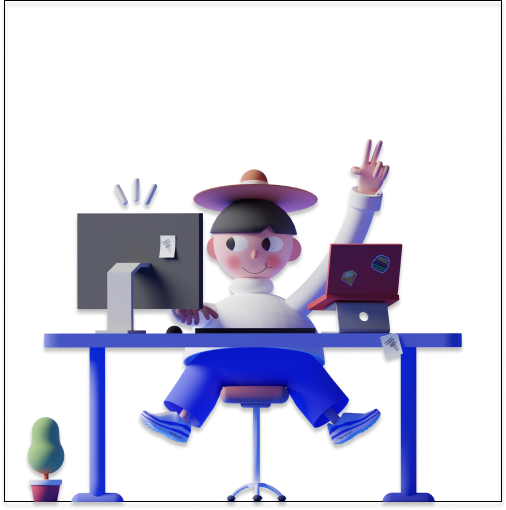
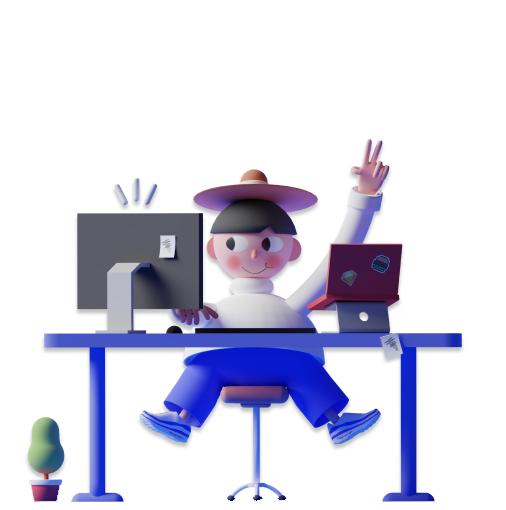
membuat tampilan seller

diff --git a/Assets/Js/popper.min.js b/Assets/Js/popper.min.js
@@ -1,0 +1,6 @@
+/**
+ * @popperjs/core v2.6.0 - MIT License
+ */
+
+"use strict";!function(e,t){"object"==typeof exports&&"undefined"!=typeof module?t(exports):"function"==typeof define&&define.amd?define(["exports"],t):t((e=e||self).Popper={})}(this,(function(e){function t(e){return{width:(e=e.getBoundingClientRect()).width,height:e.height,top:e.top,right:e.right,bottom:e.bottom,left:e.left,x:e.left,y:e.top}}function n(e){return"[object Window]"!==e.toString()?(e=e.ownerDocument)&&e.defaultView||window:e}function r(e){return{scrollLeft:(e=n(e)).pageXOffset,scrollTop:e.pageYOffset}}function o(e){return e instanceof n(e).Element||e instanceof Element}function i(e){return e instanceof n(e).HTMLElement||e instanceof HTMLElement}function a(e){return e?(e.nodeName||"").toLowerCase():null}function s(e){return((o(e)?e.ownerDocument:e.document)||window.document).documentElement}function f(e){return t(s(e)).left+r(e).scrollLeft}function c(e){return n(e).getComputedStyle(e)}function p(e){return e=c(e),/auto|scroll|overlay|hidden/.test(e.overflow+e.overflowY+e.overflowX)}function l(e,o,c){void 0===c&&(c=!1);var l=s(o);e=t(e);var u=i(o),d={scrollLeft:0,scrollTop:0},m={x:0,y:0};return(u||!u&&!c)&&(("body"!==a(o)||p(l))&&(d=o!==n(o)&&i(o)?{scrollLeft:o.scrollLeft,scrollTop:o.scrollTop}:r(o)),i(o)?((m=t(o)).x+=o.clientLeft,m.y+=o.clientTop):l&&(m.x=f(l))),{x:e.left+d.scrollLeft-m.x,y:e.top+d.scrollTop-m.y,width:e.width,height:e.height}}function u(e){return{x:e.offsetLeft,y:e.offsetTop,width:e.offsetWidth,height:e.offsetHeight}}function d(e){return"html"===a(e)?e:e.assignedSlot||e.parentNode||e.host||s(e)}function m(e,t){void 0===t&&(t=[]);var r=function e(t){return 0<=["html","body","#document"].indexOf(a(t))?t.ownerDocument.body:i(t)&&p(t)?t:e(d(t))}(e);e="body"===a(r);var o=n(r);return r=e?[o].concat(o.visualViewport||[],p(r)?r:[]):r,t=t.concat(r),e?t:t.concat(m(d(r)))}function h(e){if(!i(e)||"fixed"===c(e).position)return null;if(e=e.offsetParent){var t=s(e);if("body"===a(e)&&"static"===c(e).position&&"static"!==c(t).position)return t}return e}function g(e){for(var t=n(e),r=h(e);r&&0<=["table","td","th"].indexOf(a(r))&&"static"===c(r).position;)r=h(r);if(r&&"body"===a(r)&&"static"===c(r).position)return t;if(!r)e:{for(e=d(e);i(e)&&0>["html","body"].indexOf(a(e));){if("none"!==(r=c(e)).transform||"none"!==r.perspective||r.willChange&&"auto"!==r.willChange){r=e;break e}e=e.parentNode}r=null}return r||t}function v(e){var t=new Map,n=new Set,r=[];return e.forEach((function(e){t.set(e.name,e)})),e.forEach((function(e){n.has(e.name)||function e(o){n.add(o.name),[].concat(o.requires||[],o.requiresIfExists||[]).forEach((function(r){n.has(r)||(r=t.get(r))&&e(r)})),r.push(o)}(e)})),r}function b(e){var t;return function(){return t||(t=new Promise((function(n){Promise.resolve().then((function(){t=void 0,n(e())}))}))),t}}function y(e){return e.split("-")[0]}function O(e,t){var r,o=t.getRootNode&&t.getRootNode();if(e.contains(t))return!0;if((r=o)&&(r=o instanceof(r=n(o).ShadowRoot)||o instanceof ShadowRoot),r)do{if(t&&e.isSameNode(t))return!0;t=t.parentNode||t.host}while(t);return!1}function w(e){return Object.assign(Object.assign({},e),{},{left:e.x,top:e.y,right:e.x+e.width,bottom:e.y+e.height})}function x(e,o){if("viewport"===o){o=n(e);var a=s(e);o=o.visualViewport;var p=a.clientWidth;a=a.clientHeight;var l=0,u=0;o&&(p=o.width,a=o.height,/^((?!chrome|android).)*safari/i.test(navigator.userAgent)||(l=o.offsetLeft,u=o.offsetTop)),e=w(e={width:p,height:a,x:l+f(e),y:u})}else i(o)?((e=t(o)).top+=o.clientTop,e.left+=o.clientLeft,e.bottom=e.top+o.clientHeight,e.right=e.left+o.clientWidth,e.width=o.clientWidth,e.height=o.clientHeight,e.x=e.left,e.y=e.top):(u=s(e),e=s(u),l=r(u),o=u.ownerDocument.body,p=Math.max(e.scrollWidth,e.clientWidth,o?o.scrollWidth:0,o?o.clientWidth:0),a=Math.max(e.scrollHeight,e.clientHeight,o?o.scrollHeight:0,o?o.clientHeight:0),u=-l.scrollLeft+f(u),l=-l.scrollTop,"rtl"===c(o||e).direction&&(u+=Math.max(e.clientWidth,o?o.clientWidth:0)-p),e=w({width:p,height:a,x:u,y:l}));return e}function j(e,t,n){return t="clippingParents"===t?function(e){var t=m(d(e)),n=0<=["absolute","fixed"].indexOf(c(e).position)&&i(e)?g(e):e;return o(n)?t.filter((function(e){return o(e)&&O(e,n)&&"body"!==a(e)})):[]}(e):[].concat(t),(n=(n=[].concat(t,[n])).reduce((function(t,n){return n=x(e,n),t.top=Math.max(n.top,t.top),t.right=Math.min(n.right,t.right),t.bottom=Math.min(n.bottom,t.bottom),t.left=Math.max(n.left,t.left),t}),x(e,n[0]))).width=n.right-n.left,n.height=n.bottom-n.top,n.x=n.left,n.y=n.top,n}function M(e){return 0<=["top","bottom"].indexOf(e)?"x":"y"}function E(e){var t=e.reference,n=e.element,r=(e=e.placement)?y(e):null;e=e?e.split("-")[1]:null;var o=t.x+t.width/2-n.width/2,i=t.y+t.height/2-n.height/2;switch(r){case"top":o={x:o,y:t.y-n.height};break;case"bottom":o={x:o,y:t.y+t.height};break;case"right":o={x:t.x+t.width,y:i};break;case"left":o={x:t.x-n.width,y:i};break;default:o={x:t.x,y:t.y}}if(null!=(r=r?M(r):null))switch(i="y"===r?"height":"width",e){case"start":o[r]-=t[i]/2-n[i]/2;break;case"end":o[r]+=t[i]/2-n[i]/2}return o}function D(e){return Object.assign(Object.assign({},{top:0,right:0,bottom:0,left:0}),e)}function P(e,t){return t.reduce((function(t,n){return t[n]=e,t}),{})}function L(e,n){void 0===n&&(n={});var r=n;n=void 0===(n=r.placement)?e.placement:n;var i=r.boundary,a=void 0===i?"clippingParents":i,f=void 0===(i=r.rootBoundary)?"viewport":i;i=void 0===(i=r.elementContext)?"popper":i;var c=r.altBoundary,p=void 0!==c&&c;r=D("number"!=typeof(r=void 0===(r=r.padding)?0:r)?r:P(r,T));var l=e.elements.reference;c=e.rects.popper,a=j(o(p=e.elements[p?"popper"===i?"reference":"popper":i])?p:p.contextElement||s(e.elements.popper),a,f),p=E({reference:f=t(l),element:c,strategy:"absolute",placement:n}),c=w(Object.assign(Object.assign({},c),p)),f="popper"===i?c:f;var u={top:a.top-f.top+r.top,bottom:f.bottom-a.bottom+r.bottom,left:a.left-f.left+r.left,right:f.right-a.right+r.right};if(e=e.modifiersData.offset,"popper"===i&&e){var d=e[n];Object.keys(u).forEach((function(e){var t=0<=["right","bottom"].indexOf(e)?1:-1,n=0<=["top","bottom"].indexOf(e)?"y":"x";u[e]+=d[n]*t}))}return u}function k(){for(var e=arguments.length,t=Array(e),n=0;n<e;n++)t[n]=arguments[n];return!t.some((function(e){return!(e&&"function"==typeof e.getBoundingClientRect)}))}function B(e){void 0===e&&(e={});var t=e.defaultModifiers,n=void 0===t?[]:t,r=void 0===(e=e.defaultOptions)?V:e;return function(e,t,i){function a(){f.forEach((function(e){return e()})),f=[]}void 0===i&&(i=r);var s={placement:"bottom",orderedModifiers:[],options:Object.assign(Object.assign({},V),r),modifiersData:{},elements:{reference:e,popper:t},attributes:{},styles:{}},f=[],c=!1,p={state:s,setOptions:function(i){return a(),s.options=Object.assign(Object.assign(Object.assign({},r),s.options),i),s.scrollParents={reference:o(e)?m(e):e.contextElement?m(e.contextElement):[],popper:m(t)},i=function(e){var t=v(e);return N.reduce((function(e,n){return e.concat(t.filter((function(e){return e.phase===n})))}),[])}(function(e){var t=e.reduce((function(e,t){var n=e[t.name];return e[t.name]=n?Object.assign(Object.assign(Object.assign({},n),t),{},{options:Object.assign(Object.assign({},n.options),t.options),data:Object.assign(Object.assign({},n.data),t.data)}):t,e}),{});return Object.keys(t).map((function(e){return t[e]}))}([].concat(n,s.options.modifiers))),s.orderedModifiers=i.filter((function(e){return e.enabled})),s.orderedModifiers.forEach((function(e){var t=e.name,n=e.options;n=void 0===n?{}:n,"function"==typeof(e=e.effect)&&(t=e({state:s,name:t,instance:p,options:n}),f.push(t||function(){}))})),p.update()},forceUpdate:function(){if(!c){var e=s.elements,t=e.reference;if(k(t,e=e.popper))for(s.rects={reference:l(t,g(e),"fixed"===s.options.strategy),popper:u(e)},s.reset=!1,s.placement=s.options.placement,s.orderedModifiers.forEach((function(e){return s.modifiersData[e.name]=Object.assign({},e.data)})),t=0;t<s.orderedModifiers.length;t++)if(!0===s.reset)s.reset=!1,t=-1;else{var n=s.orderedModifiers[t];e=n.fn;var r=n.options;r=void 0===r?{}:r,n=n.name,"function"==typeof e&&(s=e({state:s,options:r,name:n,instance:p})||s)}}},update:b((function(){return new Promise((function(e){p.forceUpdate(),e(s)}))})),destroy:function(){a(),c=!0}};return k(e,t)?(p.setOptions(i).then((function(e){!c&&i.onFirstUpdate&&i.onFirstUpdate(e)})),p):p}}function W(e){var t,r=e.popper,o=e.popperRect,i=e.placement,a=e.offsets,f=e.position,c=e.gpuAcceleration,p=e.adaptive;e.roundOffsets?(e=window.devicePixelRatio||1,e={x:Math.round(a.x*e)/e||0,y:Math.round(a.y*e)/e||0}):e=a;var l=e;e=void 0===(e=l.x)?0:e,l=void 0===(l=l.y)?0:l;var u=a.hasOwnProperty("x");a=a.hasOwnProperty("y");var d,m="left",h="top",v=window;if(p){var b=g(r);b===n(r)&&(b=s(r)),"top"===i&&(h="bottom",l-=b.clientHeight-o.height,l*=c?1:-1),"left"===i&&(m="right",e-=b.clientWidth-o.width,e*=c?1:-1)}return r=Object.assign({position:f},p&&z),c?Object.assign(Object.assign({},r),{},((d={})[h]=a?"0":"",d[m]=u?"0":"",d.transform=2>(v.devicePixelRatio||1)?"translate("+e+"px, "+l+"px)":"translate3d("+e+"px, "+l+"px, 0)",d)):Object.assign(Object.assign({},r),{},((t={})[h]=a?l+"px":"",t[m]=u?e+"px":"",t.transform="",t))}function A(e){return e.replace(/left|right|bottom|top/g,(function(e){return G[e]}))}function H(e){return e.replace(/start|end/g,(function(e){return J[e]}))}function R(e,t,n){return void 0===n&&(n={x:0,y:0}),{top:e.top-t.height-n.y,right:e.right-t.width+n.x,bottom:e.bottom-t.height+n.y,left:e.left-t.width-n.x}}function S(e){return["top","right","bottom","left"].some((function(t){return 0<=e[t]}))}var T=["top","bottom","right","left"],q=T.reduce((function(e,t){return e.concat([t+"-start",t+"-end"])}),[]),C=[].concat(T,["auto"]).reduce((function(e,t){return e.concat([t,t+"-start",t+"-end"])}),[]),N="beforeRead read afterRead beforeMain main afterMain beforeWrite write afterWrite".split(" "),V={placement:"bottom",modifiers:[],strategy:"absolute"},I={passive:!0},_={name:"eventListeners",enabled:!0,phase:"write",fn:function(){},effect:function(e){var t=e.state,r=e.instance,o=(e=e.options).scroll,i=void 0===o||o,a=void 0===(e=e.resize)||e,s=n(t.elements.popper),f=[].concat(t.scrollParents.reference,t.scrollParents.popper);return i&&f.forEach((function(e){e.addEventListener("scroll",r.update,I)})),a&&s.addEventListener("resize",r.update,I),function(){i&&f.forEach((function(e){e.removeEventListener("scroll",r.update,I)})),a&&s.removeEventListener("resize",r.update,I)}},data:{}},U={name:"popperOffsets",enabled:!0,phase:"read",fn:function(e){var t=e.state;t.modifiersData[e.name]=E({reference:t.rects.reference,element:t.rects.popper,strategy:"absolute",placement:t.placement})},data:{}},z={top:"auto",right:"auto",bottom:"auto",left:"auto"},F={name:"computeStyles",enabled:!0,phase:"beforeWrite",fn:function(e){var t=e.state,n=e.options;e=void 0===(e=n.gpuAcceleration)||e;var r=n.adaptive;r=void 0===r||r,n=void 0===(n=n.roundOffsets)||n,e={placement:y(t.placement),popper:t.elements.popper,popperRect:t.rects.popper,gpuAcceleration:e},null!=t.modifiersData.popperOffsets&&(t.styles.popper=Object.assign(Object.assign({},t.styles.popper),W(Object.assign(Object.assign({},e),{},{offsets:t.modifiersData.popperOffsets,position:t.options.strategy,adaptive:r,roundOffsets:n})))),null!=t.modifiersData.arrow&&(t.styles.arrow=Object.assign(Object.assign({},t.styles.arrow),W(Object.assign(Object.assign({},e),{},{offsets:t.modifiersData.arrow,position:"absolute",adaptive:!1,roundOffsets:n})))),t.attributes.popper=Object.assign(Object.assign({},t.attributes.popper),{},{"data-popper-placement":t.placement})},data:{}},X={name:"applyStyles",enabled:!0,phase:"write",fn:function(e){var t=e.state;Object.keys(t.elements).forEach((function(e){var n=t.styles[e]||{},r=t.attributes[e]||{},o=t.elements[e];i(o)&&a(o)&&(Object.assign(o.style,n),Object.keys(r).forEach((function(e){var t=r[e];!1===t?o.removeAttribute(e):o.setAttribute(e,!0===t?"":t)})))}))},effect:function(e){var t=e.state,n={popper:{position:t.options.strategy,left:"0",top:"0",margin:"0"},arrow:{position:"absolute"},reference:{}};return Object.assign(t.elements.popper.style,n.popper),t.elements.arrow&&Object.assign(t.elements.arrow.style,n.arrow),function(){Object.keys(t.elements).forEach((function(e){var r=t.elements[e],o=t.attributes[e]||{};e=Object.keys(t.styles.hasOwnProperty(e)?t.styles[e]:n[e]).reduce((function(e,t){return e[t]="",e}),{}),i(r)&&a(r)&&(Object.assign(r.style,e),Object.keys(o).forEach((function(e){r.removeAttribute(e)})))}))}},requires:["computeStyles"]},Y={name:"offset",enabled:!0,phase:"main",requires:["popperOffsets"],fn:function(e){var t=e.state,n=e.name,r=void 0===(e=e.options.offset)?[0,0]:e,o=(e=C.reduce((function(e,n){var o=t.rects,i=y(n),a=0<=["left","top"].indexOf(i)?-1:1,s="function"==typeof r?r(Object.assign(Object.assign({},o),{},{placement:n})):r;return o=(o=s[0])||0,s=((s=s[1])||0)*a,i=0<=["left","right"].indexOf(i)?{x:s,y:o}:{x:o,y:s},e[n]=i,e}),{}))[t.placement],i=o.x;o=o.y,null!=t.modifiersData.popperOffsets&&(t.modifiersData.popperOffsets.x+=i,t.modifiersData.popperOffsets.y+=o),t.modifiersData[n]=e}},G={left:"right",right:"left",bottom:"top",top:"bottom"},J={start:"end",end:"start"},K={name:"flip",enabled:!0,phase:"main",fn:function(e){var t=e.state,n=e.options;if(e=e.name,!t.modifiersData[e]._skip){var r=n.mainAxis;r=void 0===r||r;var o=n.altAxis;o=void 0===o||o;var i=n.fallbackPlacements,a=n.padding,s=n.boundary,f=n.rootBoundary,c=n.altBoundary,p=n.flipVariations,l=void 0===p||p,u=n.allowedAutoPlacements;p=y(n=t.options.placement),i=i||(p!==n&&l?function(e){if("auto"===y(e))return[];var t=A(e);return[H(e),t,H(t)]}(n):[A(n)]);var d=[n].concat(i).reduce((function(e,n){return e.concat("auto"===y(n)?function(e,t){void 0===t&&(t={});var n=t.boundary,r=t.rootBoundary,o=t.padding,i=t.flipVariations,a=t.allowedAutoPlacements,s=void 0===a?C:a,f=t.placement.split("-")[1];0===(i=(t=f?i?q:q.filter((function(e){return e.split("-")[1]===f})):T).filter((function(e){return 0<=s.indexOf(e)}))).length&&(i=t);var c=i.reduce((function(t,i){return t[i]=L(e,{placement:i,boundary:n,rootBoundary:r,padding:o})[y(i)],t}),{});return Object.keys(c).sort((function(e,t){return c[e]-c[t]}))}(t,{placement:n,boundary:s,rootBoundary:f,padding:a,flipVariations:l,allowedAutoPlacements:u}):n)}),[]);n=t.rects.reference,i=t.rects.popper;var m=new Map;p=!0;for(var h=d[0],g=0;g<d.length;g++){var v=d[g],b=y(v),O="start"===v.split("-")[1],w=0<=["top","bottom"].indexOf(b),x=w?"width":"height",j=L(t,{placement:v,boundary:s,rootBoundary:f,altBoundary:c,padding:a});if(O=w?O?"right":"left":O?"bottom":"top",n[x]>i[x]&&(O=A(O)),x=A(O),w=[],r&&w.push(0>=j[b]),o&&w.push(0>=j[O],0>=j[x]),w.every((function(e){return e}))){h=v,p=!1;break}m.set(v,w)}if(p)for(r=function(e){var t=d.find((function(t){if(t=m.get(t))return t.slice(0,e).every((function(e){return e}))}));if(t)return h=t,"break"},o=l?3:1;0<o&&"break"!==r(o);o--);t.placement!==h&&(t.modifiersData[e]._skip=!0,t.placement=h,t.reset=!0)}},requiresIfExists:["offset"],data:{_skip:!1}},Q={name:"preventOverflow",enabled:!0,phase:"main",fn:function(e){var t=e.state,n=e.options;e=e.name;var r=n.mainAxis,o=void 0===r||r;r=void 0!==(r=n.altAxis)&&r;var i=n.tether;i=void 0===i||i;var a=n.tetherOffset,s=void 0===a?0:a;n=L(t,{boundary:n.boundary,rootBoundary:n.rootBoundary,padding:n.padding,altBoundary:n.altBoundary}),a=y(t.placement);var f=t.placement.split("-")[1],c=!f,p=M(a);a="x"===p?"y":"x";var l=t.modifiersData.popperOffsets,d=t.rects.reference,m=t.rects.popper,h="function"==typeof s?s(Object.assign(Object.assign({},t.rects),{},{placement:t.placement})):s;if(s={x:0,y:0},l){if(o){var v="y"===p?"top":"left",b="y"===p?"bottom":"right",O="y"===p?"height":"width";o=l[p];var w=l[p]+n[v],x=l[p]-n[b],j=i?-m[O]/2:0,E="start"===f?d[O]:m[O];f="start"===f?-m[O]:-d[O],m=t.elements.arrow,m=i&&m?u(m):{width:0,height:0};var D=t.modifiersData["arrow#persistent"]?t.modifiersData["arrow#persistent"].padding:{top:0,right:0,bottom:0,left:0};v=D[v],b=D[b],m=Math.max(0,Math.min(d[O],m[O])),E=c?d[O]/2-j-m-v-h:E-m-v-h,c=c?-d[O]/2+j+m+b+h:f+m+b+h,h=t.elements.arrow&&g(t.elements.arrow),d=t.modifiersData.offset?t.modifiersData.offset[t.placement][p]:0,h=l[p]+E-d-(h?"y"===p?h.clientTop||0:h.clientLeft||0:0),c=l[p]+c-d,i=Math.max(i?Math.min(w,h):w,Math.min(o,i?Math.max(x,c):x)),l[p]=i,s[p]=i-o}r&&(r=l[a],i=Math.max(r+n["x"===p?"top":"left"],Math.min(r,r-n["x"===p?"bottom":"right"])),l[a]=i,s[a]=i-r),t.modifiersData[e]=s}},requiresIfExists:["offset"]},Z={name:"arrow",enabled:!0,phase:"main",fn:function(e){var t,n=e.state;e=e.name;var r=n.elements.arrow,o=n.modifiersData.popperOffsets,i=y(n.placement),a=M(i);if(i=0<=["left","right"].indexOf(i)?"height":"width",r&&o){var s=n.modifiersData[e+"#persistent"].padding,f=u(r),c="y"===a?"top":"left",p="y"===a?"bottom":"right",l=n.rects.reference[i]+n.rects.reference[a]-o[a]-n.rects.popper[i];o=o[a]-n.rects.reference[a],l=(r=(r=g(r))?"y"===a?r.clientHeight||0:r.clientWidth||0:0)/2-f[i]/2+(l/2-o/2),i=Math.max(s[c],Math.min(l,r-f[i]-s[p])),n.modifiersData[e]=((t={})[a]=i,t.centerOffset=i-l,t)}},effect:function(e){var t=e.state,n=e.options;e=e.name;var r=n.element;if(r=void 0===r?"[data-popper-arrow]":r,n=void 0===(n=n.padding)?0:n,null!=r){if("string"==typeof r&&!(r=t.elements.popper.querySelector(r)))return;O(t.elements.popper,r)&&(t.elements.arrow=r,t.modifiersData[e+"#persistent"]={padding:D("number"!=typeof n?n:P(n,T))})}},requires:["popperOffsets"],requiresIfExists:["preventOverflow"]},$={name:"hide",enabled:!0,phase:"main",requiresIfExists:["preventOverflow"],fn:function(e){var t=e.state;e=e.name;var n=t.rects.reference,r=t.rects.popper,o=t.modifiersData.preventOverflow,i=L(t,{elementContext:"reference"}),a=L(t,{altBoundary:!0});n=R(i,n),r=R(a,r,o),o=S(n),a=S(r),t.modifiersData[e]={referenceClippingOffsets:n,popperEscapeOffsets:r,isReferenceHidden:o,hasPopperEscaped:a},t.attributes.popper=Object.assign(Object.assign({},t.attributes.popper),{},{"data-popper-reference-hidden":o,"data-popper-escaped":a})}},ee=B({defaultModifiers:[_,U,F,X]}),te=[_,U,F,X,Y,K,Q,Z,$],ne=B({defaultModifiers:te});e.applyStyles=X,e.arrow=Z,e.computeStyles=F,e.createPopper=ne,e.createPopperLite=ee,e.defaultModifiers=te,e.detectOverflow=L,e.eventListeners=_,e.flip=K,e.hide=$,e.offset=Y,e.popperGenerator=B,e.popperOffsets=U,e.preventOverflow=Q,Object.defineProperty(e,"__esModule",{value:!0})}));
+//# sourceMappingURL=popper.min.js.map

diff --git a/Auth/Seller.html b/Auth/Seller.html
@@ -1,0 +1,73 @@
+<!DOCTYPE html>
+<html lang="en">
+
+<head>
+    <meta charset="UTF-8">
+    <meta name="viewport" content="width=device-width, initial-scale=1.0">
+    <title>Seller Register</title>
+    <link rel="icon" href="../Assets/img/logo_transparent.png">
+    <link rel='stylesheet' href='../Assets/css/bootstrap.min.css'>
+    <link rel="stylesheet" href="../Assets/css/Seller.css">
+</head>
+
+<body>
+    <div class="sellerContainer">
+        <div class="container">
+            <div class="row justify-content-center">
+                <div class="col-lg-7">
+                    <div class="card cardSeller px-3">
+                        <div class="row">
+                            <div class="col-12">
+                                <h2 class="sellerHeader text-center">Daftar Menjadi Seller</h2>
+                            </div>
+                        </div>
+                        <div class="row justify-content-center">
+                            <div class="col-md-6">
+                                <form action="">
+                                    <div class="form-group mt-2">
+                                        <label for="" class="form-label small">Email</label>
+                                        <input type="email" class="w-100 form-control form-control-sm">
+                                    </div>
+
+                                    <div class="form-group mt-2">
+                                        <label for="" class="form-label small">Nama Toko</label>
+                                        <input type="text" class="w-100 form-control form-control-sm">
+                                    </div>
+
+                                    <div class="form-group">
+                                        <label for="" class="form-label small">No Telepon</label>
+                                        <div class="row g-3">
+                                            <div class="col-3">
+                                                <input type="text" class="w-100 bg-white form-control form-control-sm"
+                                                    value="+62" disabled>
+                                            </div>
+                                            <div class="col-9">
+                                                <input type="text" class="w-100 form-control form-control-sm">
+                                            </div>
+                                        </div>
+                                    </div>
+
+                                    <div class="form-group mt-4">
+                                        <div class="row">
+                                            <div class="col-lg-5">
+                                                <button type="submit" class="btn btn-seller w-100">Daftar</button>
+                                            </div>
+                                        </div>
+                                    </div>
+                                </form>
+                            </div>
+                        </div>
+                    </div>
+                </div>
+            </div>
+            <img src="../Assets/img/Character/anima4.2.png" alt="anima4" class="anima1" loading="lazy">
+        </div>
+    </div>
+</body>
+
+<script src='../Assets/Js/popper.min.js'></script>
+<script src="../Assets/Js/bootstrap.min.js"></script>
+<script>
+</script>
+
+</html>

diff --git a/Assets/css/Seller.css b/Assets/css/Seller.css
@@ -1,0 +1,122 @@
+@import url("App.css");
+@import url("https://fonts.googleapis.com/css2?family=Poppins:ital,wght@0,100;0,200;0,300;0,400;0,500;0,600;0,700;0,800;0,900;1,100;1,200;1,300;1,400;1,500;1,600;1,700;1,800;1,900&display=swap");
+
+body {
+  background: var(--bgSeller-Welcome);
+  background-position: center;
+  background-repeat: no-repeat;
+  background-size: cover;
+}
+
+.cardSeller {
+  margin-top: 10vh;
+  height: 450px;
+  border-radius: 20px;
+  background-color: rgba(255, 255, 255, 0.25);
+  border-left: 1px solid #fff;
+  border-top: 1px solid #fff;
+  color: #fff;
+}
+
+.sellerHeader {
+  margin-top: 50px;
+  font-family: "Poppins", serif;
+  font-size: 24px;
+}
+
+.anima1 {
+  user-select: none;
+  position: relative;
+  margin-top: -330px;
+  margin-left: 70px;
+  width: 348px;
+  height: 352px;
+}
+
+.btn-seller {
+  background: var(--button-gradient);
+  border-radius: 5px;
+  color: #fff;
+  font-family: "poppins", serif;
+}
+
+/* * Phone */
+@media (min-width: 0px) and (max-width: 765px) {
+  body {
+    background: var(--bgSeller-WelcomePhone);
+    background-repeat: no-repeat;
+    background-size: 100%;
+  }
+
+  .sellerHeader {
+    font-size: 20px;
+  }
+
+  .cardSeller {
+    border: 1px solid #fff;
+  }
+
+  .anima1 {
+    display: none;
+  }
+}
+
+/* * Desktop */
+@media (min-width: 1260px) {
+  body {
+    background: var(--bgSeller-WelcomeDesktop);
+    background-repeat: no-repeat;
+    background-size: 100%;
+  }
+
+  .sellerHeader {
+    margin-top: 90px;
+    font-family: "Poppins", serif;
+    font-size: 24px;
+  }
+
+  .cardSeller {
+    margin-top: 15vh;
+    height: 500px;
+  }
+}
+
+/* * Tab1 */
+@media (min-width: 768px) and (min-height: 1024px) {
+  body {
+    background: var(--bgSeller-WelcomeTab);
+    background-repeat: no-repeat;
+    background-size: 100%;
+  }
+
+  .cardSeller {
+    margin-top: 15vh;
+    height: 450px;
+  }
+
+  .anima1 {
+    user-select: none;
+    position: relative;
+    margin-top: -220px;
+    margin-left: -40px;
+    width: 248px;
+    height: 252px;
+  }
+}
+
+/* * Tab 2 */
+@media (min-width: 1024px) and (min-height: 1300px) {
+  .anima1 {
+    margin-top: -230px;
+    margin-left: 70px;
+    width: 248px;
+    height: 252px;
+  }
+}
+
+@supports (-webkit-backdrop-filter: none) or (backdrop-filter: none) {
+  .cardSeller {
+    -webkit-backdrop-filter: blur(10px);
+    backdrop-filter: blur(10px);
+  }
+}

diff --git a/Assets/css/App.css b/Assets/css/App.css
@@ -1,10 +1,8 @@
 :root {
-  --bgSeller-Welcome: linear-gradient(
-    131.38deg,
-    #9b43ca -4.2%,
-    #3c74ff 42.96%,
-    #6fdee7 103.63%
-  );
+  --bgSeller-Welcome: url("../img/Background/Seller/Bg.jpg");
+  --bgSeller-WelcomeTab: url("../img/Background/Seller/bgTab.jpg");
+  --bgSeller-WelcomePhone: url("../img/Background/Seller/bgPhone.jpg");
+  --bgSeller-WelcomeDesktop: url("../img/Background/Seller/bgDesk.jpg");
   --bgLogin-Register: linear-gradient(
     110.98deg,
     #9b43ca 0.31%,
@@ -17,4 +15,5 @@
   --webkitBackdropFilter: blur(4px);
   --borderRadiusLogin: 10px;
   --fontFamily: "Poppins", sans-serif;
+  --button-gradient: linear-gradient(95.62deg, #3c74ff -4.86%, #6fdee7 141.65%);
 }
